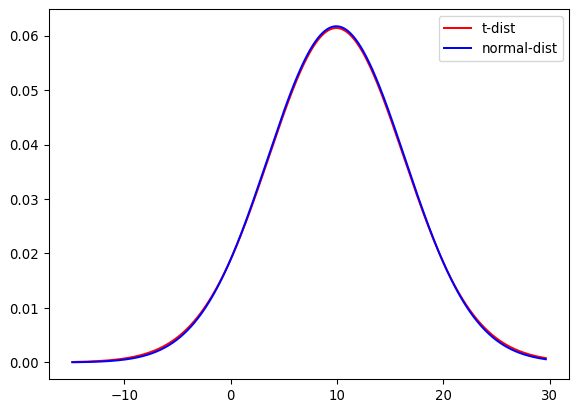
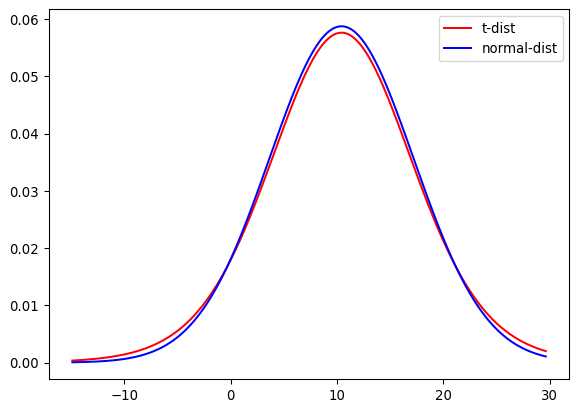
Adjusted numbers for t-distribution

diff --git a/04_distributionsData/distributionsData.html b/04_distributionsData/distributionsData.html
@@ -117,14 +117,14 @@ pre > code.sourceCode > span > a:first-child::before { text-decoration: underlin
 <li><p>Matplotlib (plotting)</p></li>
 <li><p>Scipy (statistical analysis)</p></li>
 </ul>
-<div id="48a3acb3" class="cell" data-execution_count="1">
+<div id="6a0fec3c" class="cell" data-execution_count="1">
 <div class="sourceCode cell-code" id="cb1"><pre class="sourceCode python code-with-copy"><code class="sourceCode python"><span id="cb1-1"><a href="#cb1-1" aria-hidden="true" tabindex="-1"></a><span class="im">import</span> pandas <span class="im">as</span> pd</span>
 <span id="cb1-2"><a href="#cb1-2" aria-hidden="true" tabindex="-1"></a><span class="im">import</span> matplotlib.pyplot <span class="im">as</span> plt</span>
 <span id="cb1-3"><a href="#cb1-3" aria-hidden="true" tabindex="-1"></a><span class="im">import</span> numpy <span class="im">as</span> np</span>
 <span id="cb1-4"><a href="#cb1-4" aria-hidden="true" tabindex="-1"></a><span class="im">import</span> scipy.stats <span class="im">as</span> stats</span></code><button title="Copy to Clipboard" class="code-copy-button"><i class="bi"></i></button></pre></div>
 </div>
 <p>Now we are going to take a look at the first dataset which contains information about the daily temperatures in the Netherlands. We tell pandas to parse the date information, and use it as row labels:</p>
-<div id="b58cf445" class="cell" data-execution_count="2">
+<div id="a4747a4b" class="cell" data-execution_count="2">
 <div class="sourceCode cell-code" id="cb2"><pre class="sourceCode python code-with-copy"><code class="sourceCode python"><span id="cb2-1"><a href="#cb2-1" aria-hidden="true" tabindex="-1"></a>Tas <span class="op">=</span> pd.read_csv(<span class="st">"../Data/dailyTemperature.csv"</span>, parse_dates<span class="op">=</span><span class="va">True</span>, index_col<span class="op">=</span><span class="dv">0</span>).dropna()</span>
 <span id="cb2-2"><a href="#cb2-2" aria-hidden="true" tabindex="-1"></a>Precip <span class="op">=</span> pd.read_csv(<span class="st">"../Data/dailyPrecipitation.csv"</span>, parse_dates<span class="op">=</span><span class="va">True</span>, index_col<span class="op">=</span><span class="dv">0</span>).dropna()</span>
 <span id="cb2-3"><a href="#cb2-3" aria-hidden="true" tabindex="-1"></a>Evap <span class="op">=</span> pd.read_csv(<span class="st">"../Data/dailyEvaporation.csv"</span>, parse_dates<span class="op">=</span><span class="va">True</span>, index_col<span class="op">=</span><span class="dv">0</span>).dropna()</span></code><button title="Copy to Clipboard" class="code-copy-button"><i class="bi"></i></button></pre></div>
@@ -233,7 +233,7 @@ pre > code.sourceCode > span > a:first-child::before { text-decoration: underlin
 <span id="cb5-5"><a href="#cb5-5" aria-hidden="true" tabindex="-1"></a>fraction <span class="op">=</span> sampleData[Tas <span class="op">&lt;=</span> <span class="dv">0</span>].count()<span class="op">/</span>sampleSize</span>
 <span id="cb5-6"><a href="#cb5-6" aria-hidden="true" tabindex="-1"></a><span class="bu">print</span>(fraction)</span></code><button title="Copy to Clipboard" class="code-copy-button"><i class="bi"></i></button></pre></div>
 <p>You find that the fraction is higher than the expected value of 6.5% or 0.065. This is because our sample size is insufficient to correctly reflect the data observational record. Again this confirms that sample size is very relevant when doing your work, getting enough data is key in the real world and Geosciences as well. We will explore how many samples we need using a for-loop.</p>
-<div id="f01cabf4" class="cell" data-execution_count="3">
+<div id="b55a003e" class="cell" data-execution_count="3">
 <div class="sourceCode cell-code" id="cb6"><pre class="sourceCode python code-with-copy"><code class="sourceCode python"><span id="cb6-1"><a href="#cb6-1" aria-hidden="true" tabindex="-1"></a><span class="co">## To ensure we get the same random samples and thus the same answers.</span></span>
 <span id="cb6-2"><a href="#cb6-2" aria-hidden="true" tabindex="-1"></a>np.random.seed(<span class="dv">10</span>)</span>
 <span id="cb6-3"><a href="#cb6-3" aria-hidden="true" tabindex="-1"></a><span class="co">## Sample size</span></span>
@@ -263,12 +263,12 @@ pre > code.sourceCode > span > a:first-child::before { text-decoration: underlin
 <h4 class="anchored" data-anchor-id="question-14-1">Question 14</h4>
 <p><em>Do you think it will take longer or shorter to obtain the “True” exceedance of a value if you take a threshold with a higher probability, for example 10C. Test this with the script above and provide the figure</em></p>
 <p>We can also ask ourselves the question how many days will we get in the coming year that have temperature &lt;= 0C. For this we can use the Poisson distribution to generate likely distributions of freezing temperatures in every year. We know from the previous analysis that we have 3004 days that &lt;= 0C for a total record length of 45097 days, which mean on average we have 3004/45097*365.25 = 24.33 days with &lt;= 0C per year on average since 1901. Now lets plot a Poisson distribution.</p>
-<div id="58b41973" class="cell" data-execution_count="4">
+<div id="26a5a15c" class="cell" data-execution_count="4">
 <div class="sourceCode cell-code" id="cb7"><pre class="sourceCode python code-with-copy"><code class="sourceCode python"><span id="cb7-1"><a href="#cb7-1" aria-hidden="true" tabindex="-1"></a>np.random.seed(<span class="dv">10</span>)</span>
 <span id="cb7-2"><a href="#cb7-2" aria-hidden="true" tabindex="-1"></a>avgDays <span class="op">=</span> <span class="fl">24.33</span></span>
 <span id="cb7-3"><a href="#cb7-3" aria-hidden="true" tabindex="-1"></a>randomYears <span class="op">=</span> stats.poisson.rvs(avgDays, size<span class="op">=</span><span class="dv">1000</span>)</span>
 <span id="cb7-4"><a href="#cb7-4" aria-hidden="true" tabindex="-1"></a>plt.hist(randomYears)</span></code><button title="Copy to Clipboard" class="code-copy-button"><i class="bi"></i></button></pre></div>
-<div class="cell-output cell-output-display" data-execution_count="34">
+<div class="cell-output cell-output-display" data-execution_count="52">
 <pre><code>(array([  5.,  25.,  87., 190., 221., 283., 127.,  46.,  12.,   4.]),
  array([ 9. , 12.2, 15.4, 18.6, 21.8, 25. , 28.2, 31.4, 34.6, 37.8, 41. ]),
  &lt;BarContainer object of 10 artists&gt;)</code></pre>
@@ -295,8 +295,8 @@ pre > code.sourceCode > span > a:first-child::before { text-decoration: underlin
 <h1>Using a t-distribution</h1>
 <p>When we are working with problems that have small samples size, for example the field observations where sample sizes might be as low as several measurements maybe up to a 100. Since in these measurements the true variance of the mean is unknown, it must be approximated by the sample standard error of the mean. And the ratio between the sample mean and the standard error had a distribution that is called the t-distribution, and converges for larger values towards the normal distribution.</p>
 <p>We can both the normal and distribution for the Temperature dataset with the fitting information from Question 12. We first fit both a t-distribution with a limited sample and a normal distribution and then plot the cumulative density function (CDF) for both distributions.</p>
-<div id="24c0c700" class="cell" data-execution_count="5">
-<div class="sourceCode cell-code" id="cb9"><pre class="sourceCode python code-with-copy"><code class="sourceCode python"><span id="cb9-1"><a href="#cb9-1" aria-hidden="true" tabindex="-1"></a>sampleTas <span class="op">=</span> Tas.sample(<span class="dv">50</span>, random_state<span class="op">=</span><span class="dv">1</span>)</span>
+<div id="0047e57c" class="cell" data-execution_count="5">
+<div class="sourceCode cell-code" id="cb9"><pre class="sourceCode python code-with-copy"><code class="sourceCode python"><span id="cb9-1"><a href="#cb9-1" aria-hidden="true" tabindex="-1"></a>sampleTas <span class="op">=</span> Tas.sample(<span class="dv">15</span>, random_state<span class="op">=</span><span class="dv">1</span>)</span>
 <span id="cb9-2"><a href="#cb9-2" aria-hidden="true" tabindex="-1"></a>tStat, loc, scale <span class="op">=</span> stats.t.fit(sampleTas)</span>
 <span id="cb9-3"><a href="#cb9-3" aria-hidden="true" tabindex="-1"></a>degreeF <span class="op">=</span> <span class="bu">len</span>(sampleTas) <span class="op">-</span> <span class="dv">2</span></span>
 <span id="cb9-4"><a href="#cb9-4" aria-hidden="true" tabindex="-1"></a>mean, std <span class="op">=</span> stats.norm.fit(sampleTas)</span>
@@ -316,7 +316,7 @@ pre > code.sourceCode > span > a:first-child::before { text-decoration: underlin
 </div>
 </div>
 <p>And again for the full sample of data.</p>
-<div id="6fc18415" class="cell" data-execution_count="6">
+<div id="2adc861d" class="cell" data-execution_count="6">
 <div class="sourceCode cell-code" id="cb10"><pre class="sourceCode python code-with-copy"><code class="sourceCode python"><span id="cb10-1"><a href="#cb10-1" aria-hidden="true" tabindex="-1"></a>tStat, loc, scale <span class="op">=</span> stats.t.fit(Tas)</span>
 <span id="cb10-2"><a href="#cb10-2" aria-hidden="true" tabindex="-1"></a>mean, std <span class="op">=</span> stats.norm.fit(Tas)</span>
 <span id="cb10-3"><a href="#cb10-3" aria-hidden="true" tabindex="-1"></a>degreeF <span class="op">=</span> <span class="bu">len</span>(Tas) <span class="op">-</span> <span class="dv">2</span></span>

diff --git a/04_distributionsData/distributionsData.md b/04_distributionsData/distributionsData.md
@@ -326,7 +326,7 @@ randomYears = stats.poisson.rvs(avgDays, size=1000)
 plt.hist(randomYears)
 ```
 
-::: {.cell-output .cell-output-display execution_count="40"}
+::: {.cell-output .cell-output-display execution_count="46"}
     (array([  5.,  25.,  87., 190., 221., 283., 127.,  46.,  12.,   4.]),
      array([ 9. , 12.2, 15.4, 18.6, 21.8, 25. , 28.2, 31.4, 34.6, 37.8, 41. ]),
      <BarContainer object of 10 artists>)
@@ -372,7 +372,7 @@ plot the cumulative density function (CDF) for both distributions.
 
 :::: {.cell execution_count="5"}
 ``` {.python .cell-code}
-sampleTas = Tas.sample(50, random_state=1)
+sampleTas = Tas.sample(15, random_state=1)
 tStat, loc, scale = stats.t.fit(sampleTas)
 degreeF = len(sampleTas) - 2
 mean, std = stats.norm.fit(sampleTas)
